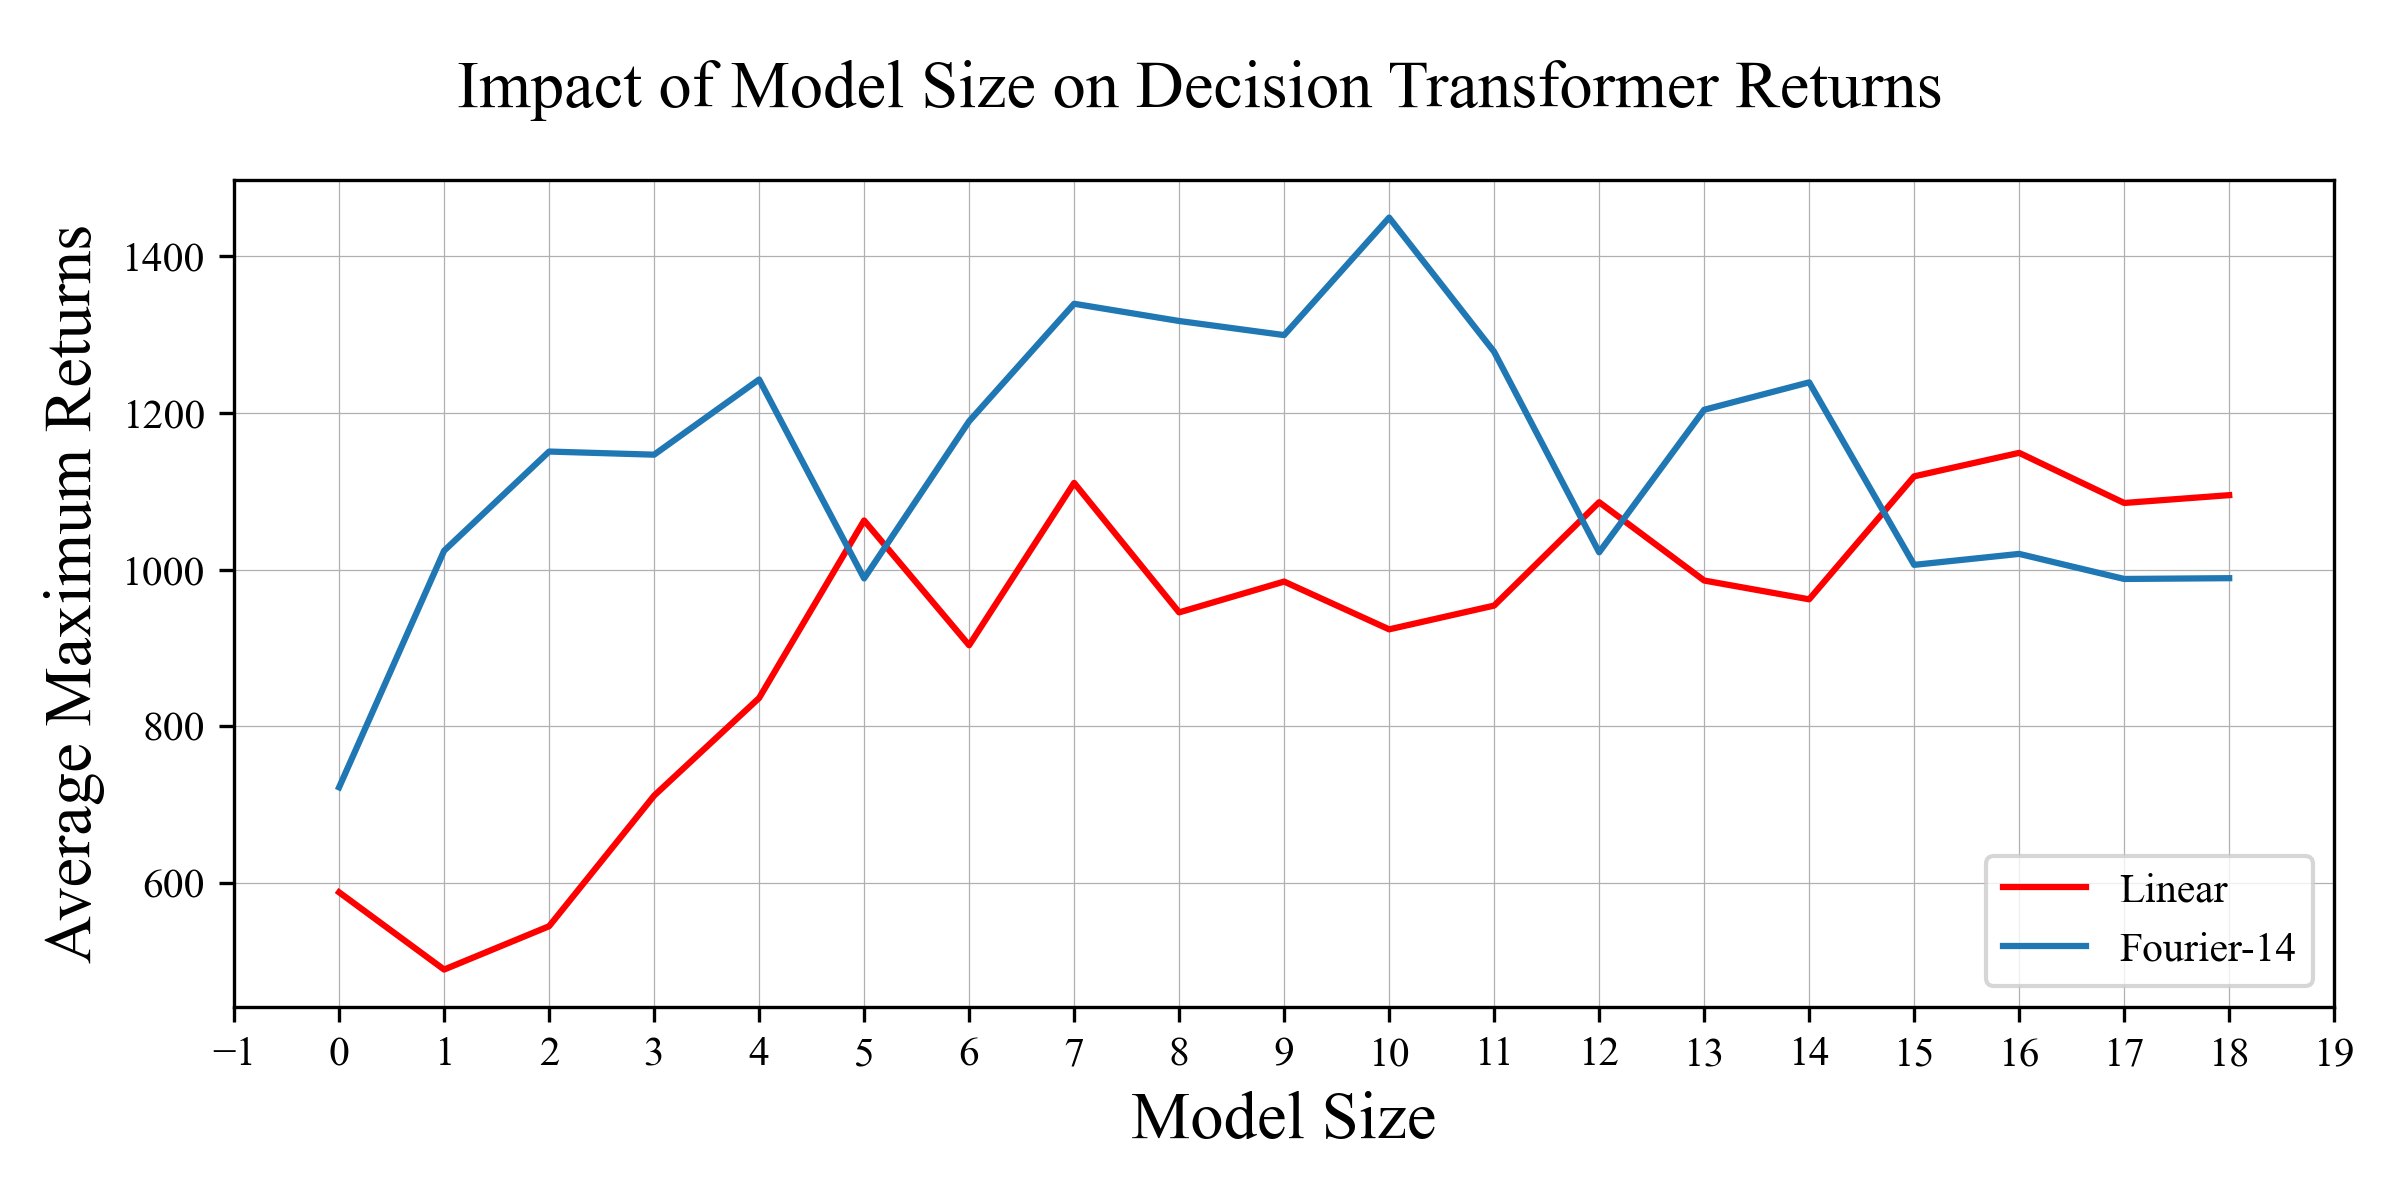
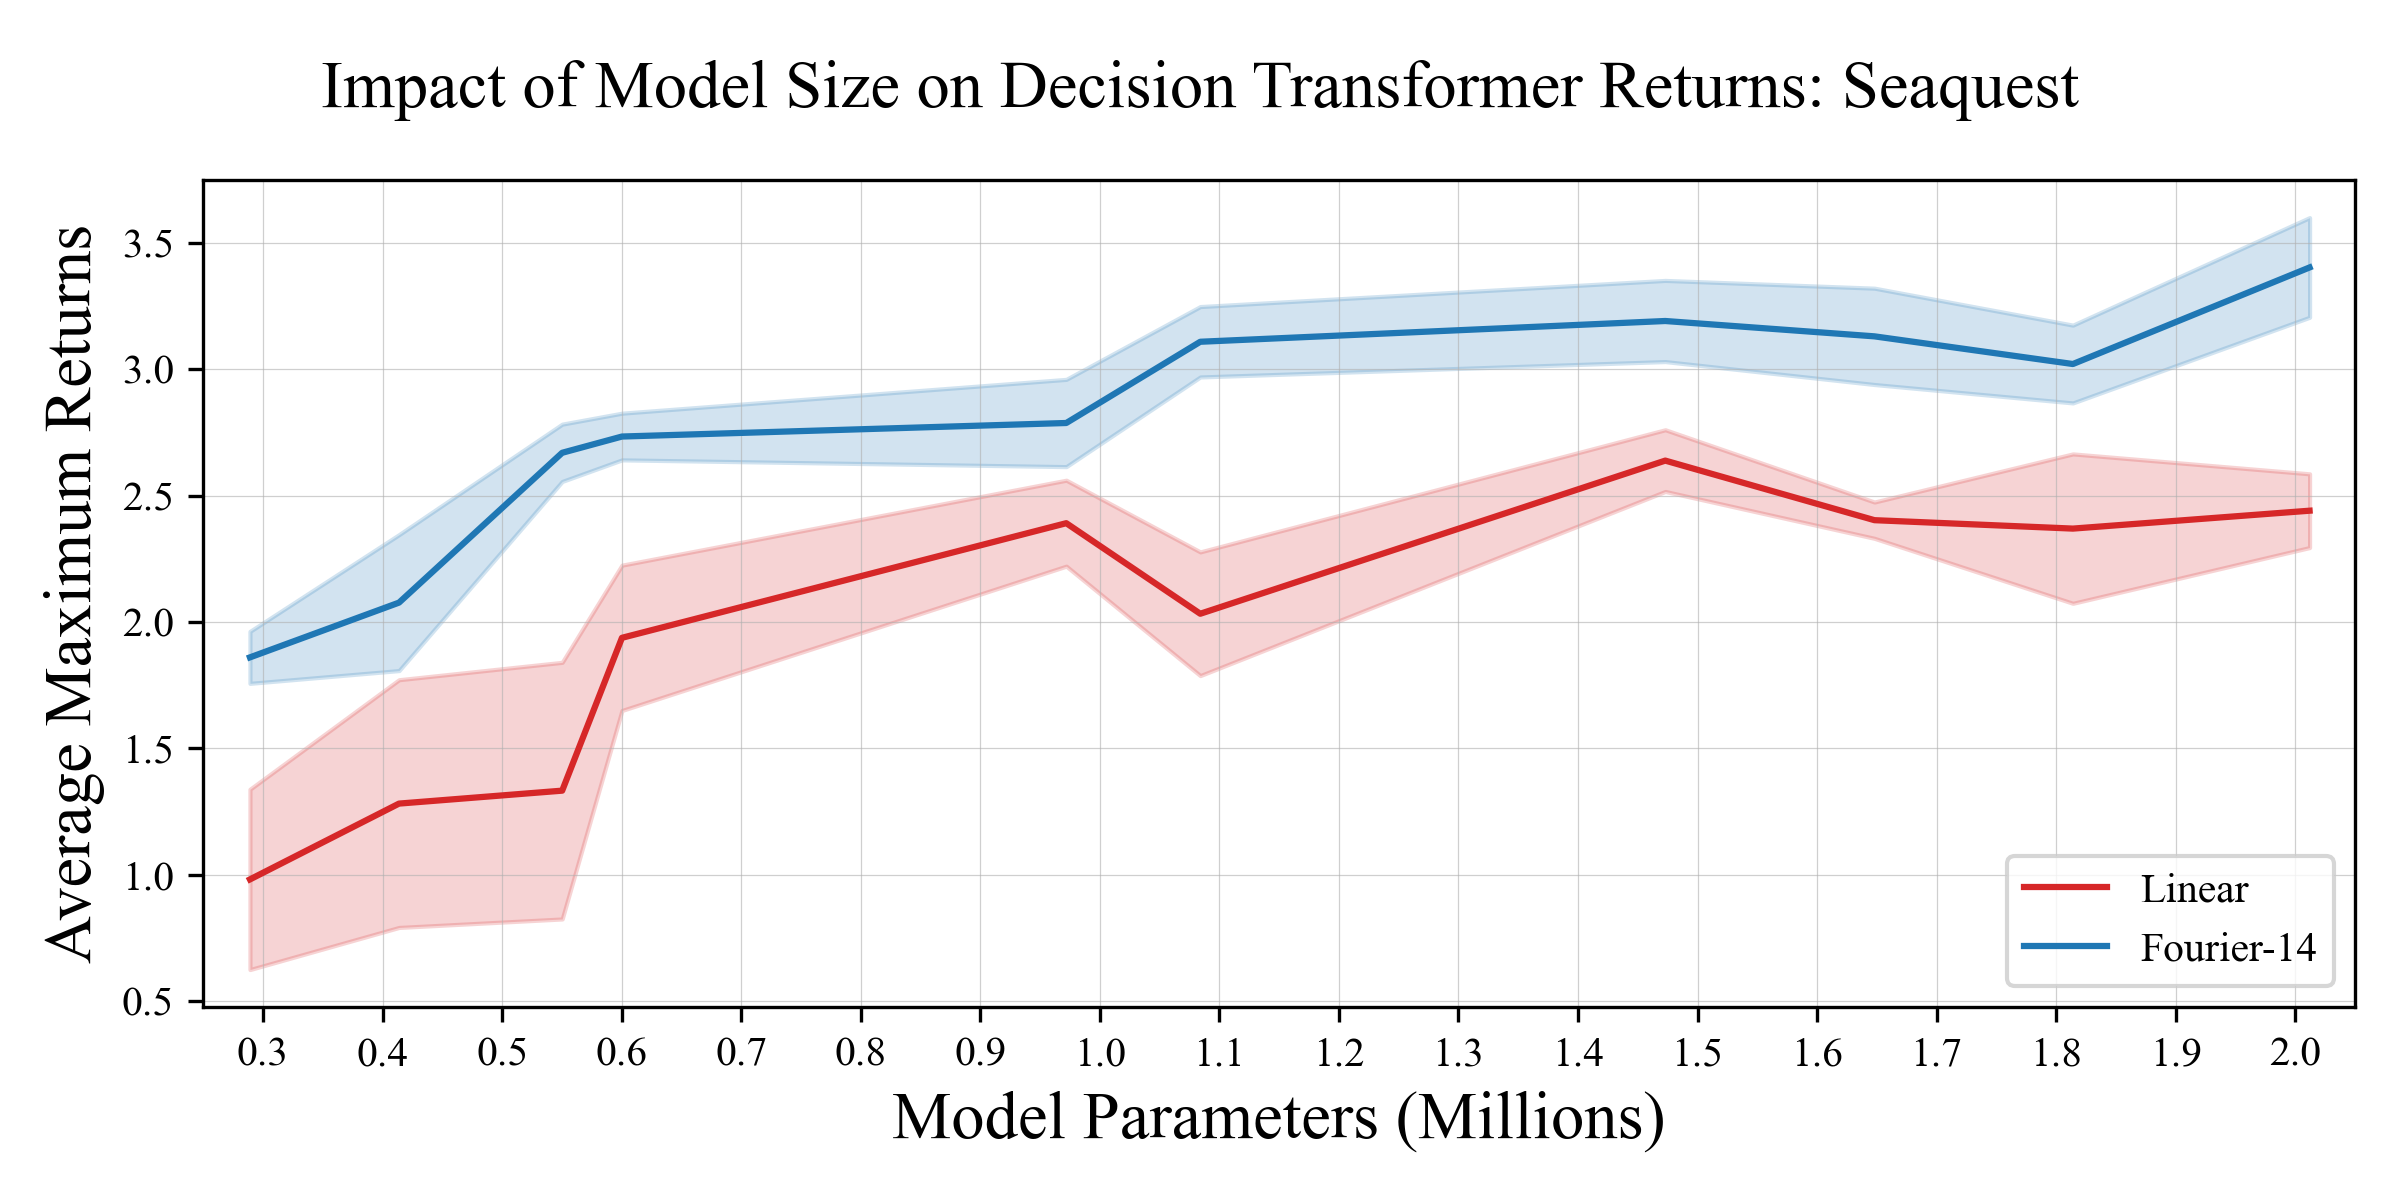
Decision transformer ablation scripts and instructions

diff --git a/imitation-learning/scripts/eval/atari_graph_varying_model_size.py b/imitation-learning/scripts/eval/atari_graph_varying_model_size.py
@@ -1,18 +1,24 @@
 import matplotlib.font_manager as font_manager
 import matplotlib.pyplot as plt
-from matplotlib.ticker import MultipleLocator
+from matplotlib.ticker import MultipleLocator, LogLocator, LogFormatter
 import numpy as np
 import json
 import os
 
 from atari_expert_scores import get_human_normalized_score
-from scipy.ndimage import gaussian_filter1d
 
 # Keep original font settings
 font_path = 'scripts/eval/Times_New_Roman.ttf'
 font_manager.fontManager.addfont(font_path)
 plt.rcParams['font.family'] = 'serif'
 plt.rcParams['font.serif'] = 'Times New Roman'
+
+import sys
+for path in sys.path:
+    if path.endswith("/imitation-learning/scripts/eval"):
+        sys.path.append(path.replace("/scripts/eval", "/"))
+
+from mingpt.scale_configs import SCALE_CONFIGS
 
 def get_returns_for_model(base_dir, model_type):
     """Calculate average of maximal returns for a given model directory."""
@@ -37,16 +43,29 @@ def get_returns_for_model(base_dir, model_type):
 
     return max_returns_mean, max_returns_std
 
-def analyze_seaquest_directories():
-    """Analyze returns across Seaquest-{i} directories for both Linear and Fourier-14 models."""
+def analyze_seaquest_directories(ignore_indices=None):
+    """
+    Analyze returns across Seaquest-{i} directories for both Linear and Fourier-14 models.
+    
+    Args:
+        ignore_indices (list or set): Indices to ignore in the analysis
+    """
+    if ignore_indices is None:
+        ignore_indices = set()
+    else:
+        ignore_indices = set(ignore_indices)
+    
     linear_returns = []
     fourier_returns = []
     linear_returns_std = []
     fourier_returns_std = []
-    indices = []
+    x_values = []  # Will store M_log_params values
     
     # Collect data for each directory
-    for i in range(11):
+    for i in range(11):  # Only going up to 10 as per the provided SCALE_CONFIGS
+        if i in ignore_indices:
+            continue
+            
         directory = f"output/Seaquest-{i}"
         if os.path.exists(directory):
             linear_return, linear_return_std = get_returns_for_model(directory, "linear")
@@ -57,21 +76,21 @@ def analyze_seaquest_directories():
                 fourier_returns.append(fourier_return)
                 linear_returns_std.append(linear_return_std)
                 fourier_returns_std.append(fourier_return_std)
-                indices.append(i)
+                x_values.append(SCALE_CONFIGS[i]["M_log_params"])
     
-    return indices, linear_returns, fourier_returns, linear_returns_std, fourier_returns_std
+    return x_values, linear_returns, fourier_returns, linear_returns_std, fourier_returns_std
 
-def create_graph(indices, linear_returns, fourier_returns, linear_returns_std, fourier_returns_std, output_fname):
+def create_graph(x_values, linear_returns, fourier_returns, linear_returns_std, fourier_returns_std, output_fname):
     """Create a graph comparing Linear and Fourier-14 returns."""
     fig, ax = plt.subplots(figsize=(8, 4))
 
-    DIVIDE_STD_BY = (1/0.67) # this gives 50% confidence interval
+    DIVIDE_STD_BY = (1/0.67)  # this gives 50% confidence interval
     
     # Plot linear returns
-    ax.plot(indices, linear_returns, c="tab:red", label="Linear")
+    ax.plot(x_values, linear_returns, c="tab:red", label="Linear")
     # Plot standard deviation tunnel for linear returns
     ax.fill_between(
-        indices, 
+        x_values, 
         np.array(linear_returns) - np.array(linear_returns_std)/DIVIDE_STD_BY, 
         np.array(linear_returns) + np.array(linear_returns_std)/DIVIDE_STD_BY, 
         color="tab:red", 
@@ -79,10 +98,10 @@ def create_graph(indices, linear_returns, fourier_returns, linear_returns_std, f
     )
 
     # Plot fourier returns
-    ax.plot(indices, fourier_returns, c="tab:blue", label="Fourier-14")
+    ax.plot(x_values, fourier_returns, c="tab:blue", label="Fourier-14")
     # Plot standard deviation tunnel for fourier returns
     ax.fill_between(
-        indices, 
+        x_values, 
         np.array(fourier_returns) - np.array(fourier_returns_std)/DIVIDE_STD_BY, 
         np.array(fourier_returns) + np.array(fourier_returns_std)/DIVIDE_STD_BY, 
         color="tab:blue", 
@@ -90,14 +109,23 @@ def create_graph(indices, linear_returns, fourier_returns, linear_returns_std, f
     )
     
     # Set labels and title
-    ax.set_xlabel("Model Size", fontsize=16)
+    ax.set_xlabel("Model Parameters (Millions)", fontsize=16)
     ax.set_ylabel("Average Maximum Returns", fontsize=16)
     fig.suptitle("Impact of Model Size on Decision Transformer Returns: Seaquest", fontsize=16, y=0.95)
     
     # Configure grid and axis
     ax.grid(True, linewidth=0.3)
-    ax.set_xlim(-0.25,10.25)  # Slightly wider than 0-18 for better visibility
-    ax.xaxis.set_major_locator(MultipleLocator(1))  # Set x-ticks to integers
+    
+    # Set x-axis limits with padding
+    min_x = 0.25
+    max_x = 2.05
+    ax.set_xlim(min_x, max_x)
+    
+    # Set major ticks every 0.1
+    ax.xaxis.set_major_locator(MultipleLocator(0.1))
+    
+    # Add minor gridlines
+    ax.grid(True, which='major', linestyle='-', alpha=0.6)
     
     # Add legend
     ax.legend(loc="lower right")
@@ -110,12 +138,12 @@ def create_graph(indices, linear_returns, fourier_returns, linear_returns_std, f
     plt.savefig(output_fname, dpi=300)
 
 def main():
-    # Collect and analyze data
-    indices, linear_returns, fourier_returns, linear_returns_std, fourier_returns_std = analyze_seaquest_directories()
+    # Collect and analyze data, ignoring index 5
+    x_values, linear_returns, fourier_returns, linear_returns_std, fourier_returns_std = analyze_seaquest_directories(ignore_indices=[5])
     
     # Create and save the graph
     output_fname = "scripts/eval/atari_graph_varying_model_size.png"
-    create_graph(indices, linear_returns, fourier_returns, linear_returns_std, fourier_returns_std, output_fname)
+    create_graph(x_values, linear_returns, fourier_returns, linear_returns_std, fourier_returns_std, output_fname)
 
 if __name__ == "__main__":
     main()

diff --git a/imitation-learning/mingpt/scale_configs.py b/imitation-learning/mingpt/scale_configs.py
@@ -1,21 +1,13 @@
 SCALE_CONFIGS = {
-    0: {"name": "Nano",     "n_layer": 2,   "n_head": 2,    "n_embd": 32},    # ~0.2895M params
-    1: {"name": "Micro",    "n_layer": 2,   "n_head": 2,    "n_embd": 48},    # ~0.4137M params
-    2: {"name": "Tiny",     "n_layer": 2,   "n_head": 4,    "n_embd": 64},    # ~0.5502M params
-    3: {"name": "Mini",     "n_layer": 3,   "n_head": 4,    "n_embd": 64},    # ~0.6002M params
-    4: {"name": "XSmall",   "n_layer": 3,   "n_head": 4,    "n_embd": 96},    # ~0.9719M params
-    5: {"name": "Small-A",  "n_layer": 4,   "n_head": 4,    "n_embd": 96},    # ~1.084M params
-    6: {"name": "Small-B",  "n_layer": 4,   "n_head": 6,    "n_embd": 96},    # ~1.084M params
-    7: {"name": "Small-C",  "n_layer": 4,   "n_head": 6,    "n_embd": 120},   # ~1.473M params
-    8: {"name": "Small-D",  "n_layer": 5,   "n_head": 6,    "n_embd": 120},   # ~1.648M params
-    9: {"name": "Small-E",  "n_layer": 5,   "n_head": 8,    "n_embd": 128},   # ~1.814M params
-    10: {"name": "Base",    "n_layer": 6,   "n_head": 8,    "n_embd": 128},   # ~2.012M params
-    11: {"name": "Medium-A","n_layer": 7,   "n_head": 8,    "n_embd": 192},   # ~4.309M params
-    12: {"name": "Medium-B","n_layer": 8,   "n_head": 8,    "n_embd": 256},   # ~7.885M params
-    13: {"name": "Medium-C","n_layer": 10,  "n_head": 10,   "n_embd": 320},   # ~14.27M params
-    14: {"name": "Large-A", "n_layer": 12,  "n_head": 12,   "n_embd": 384},   # ~23.61M params
-    15: {"name": "Large-B", "n_layer": 14,  "n_head": 14,   "n_embd": 448},   # ~36.48M params
-    16: {"name": "XLarge-A","n_layer": 16,  "n_head": 16,   "n_embd": 512},   # ~53.49M params
-    17: {"name": "XLarge-B","n_layer": 18,  "n_head": 18,   "n_embd": 576},   # ~75.23M params
-    18: {"name": "2XLarge", "n_layer": 20,  "n_head": 20,   "n_embd": 640},   # ~102.3M params
+    0: {"name": "Nano",     "n_layer": 2,   "n_head": 2,    "n_embd": 32,    "M_log_params": 0.289},    # ~0.2895M params
+    1: {"name": "Micro",    "n_layer": 2,   "n_head": 2,    "n_embd": 48,    "M_log_params": 0.4137},    # ~0.4137M params
+    2: {"name": "Tiny",     "n_layer": 2,   "n_head": 4,    "n_embd": 64,    "M_log_params": 0.5502},    # ~0.5502M params
+    3: {"name": "Mini",     "n_layer": 3,   "n_head": 4,    "n_embd": 64,    "M_log_params": 0.6002},    # ~0.6002M params
+    4: {"name": "XSmall",   "n_layer": 3,   "n_head": 4,    "n_embd": 96,    "M_log_params": 0.9719},    # ~0.9719M params
+    5: {"name": "Small-A",  "n_layer": 4,   "n_head": 4,    "n_embd": 96,    "M_log_params": 1.084},    # ~1.084M params
+    6: {"name": "Small-B",  "n_layer": 4,   "n_head": 6,    "n_embd": 96,    "M_log_params": 1.084},    # ~1.084M params
+    7: {"name": "Small-C",  "n_layer": 4,   "n_head": 6,    "n_embd": 120,   "M_log_params": 1.473},   # ~1.473M params
+    8: {"name": "Small-D",  "n_layer": 5,   "n_head": 6,    "n_embd": 120,   "M_log_params": 1.648},   # ~1.648M params
+    9: {"name": "Small-E",  "n_layer": 5,   "n_head": 8,    "n_embd": 128,   "M_log_params": 1.814},   # ~1.814M params
+    10: {"name": "Base",    "n_layer": 6,   "n_head": 8,    "n_embd": 128,   "M_log_params": 2.012},   # ~2.012M params
 }

diff --git a/imitation-learning/scripts/eval/atari_graph_varying_freqs.py b/imitation-learning/scripts/eval/atari_graph_varying_freqs.py
@@ -15,8 +15,12 @@ plt.rcParams['font.serif'] = 'Times New Roman'
 def get_frequencies_for_game(game_name):
     if game_name == 'Seaquest':
         return list(range(2, 34, 2))  # [2,4,6,8,...,32]
-    else:
+    elif game_name in ["BankHeist", "Centipede", "DoubleDunk"]:
         return list(range(4, 36, 4))  # [4,8,12,...,32]
+    elif game_name == "Boxing" : 
+        return [4, 8, 12, 16]
+    else:
+        return [8, 16]
 
 def get_returns_metrics(game_name, returns_local):
 
@@ -27,7 +31,7 @@ def get_returns_metrics(game_name, returns_local):
     returns_best = np.asarray(returns_best)
 
     # normalize
-    # returns_best = 100*get_human_normalized_score(game_name.lower(), returns_best)
+    returns_best = 100*get_human_normalized_score(game_name.lower(), returns_best)
 
     returns_mean = returns_best.mean()
     returns_std = returns_best.std()
@@ -143,7 +147,7 @@ def build_graphs(vals, freqs, output_fname, title=""):
     ax1.set_xlabel("Fourier Frequencies", fontsize=16)
     ax1.set_ylabel("Normalized Returns", fontsize=16)
     ax1.grid(True, linewidth=0.3)
-    ax1.set_xlim(2, 32)  # Set the x-axis limits to match the new tick values
+    ax1.set_xlim(freqs[0], freqs[-1])  # Set the x-axis limits to match the new tick values
     ax1.xaxis.set_major_locator(MultipleLocator(2))  # Set x-ticks to 2, 4, 6, ..., 32
     ax1.legend(loc="lower right")
 
@@ -164,7 +168,7 @@ def build_graphs(vals, freqs, output_fname, title=""):
     ax2.set_xlabel("Fourier Frequencies", fontsize=16)
     ax2.set_ylabel("Smoothness", fontsize=16)
     ax2.grid(True, linewidth=0.3)
-    ax2.set_xlim(2, 32)  # Set the x-axis limits to match the new tick values
+    ax2.set_xlim(freqs[0], freqs[-1])  # Set the x-axis limits to match the new tick values
     ax2.xaxis.set_major_locator(MultipleLocator(2))  # Set x-ticks to 2, 4, 6, ..., 32
     ax2.legend(loc="lower right")
 

diff --git a/imitation-learning/scripts/eval/atari_expert_scores.py b/imitation-learning/scripts/eval/atari_expert_scores.py
@@ -46,7 +46,7 @@ _ATARI_DATA = {
     'asterix': (210.0, 8503.3),
     'asteroids': (719.1, 47388.7),
     'atlantis': (12850.0, 29028.1),
-    'bank_heist': (14.2, 753.1),
+    'bankheist': (14.2, 753.1),
     'battle_zone': (2360.0, 37187.5),
     'beam_rider': (363.9, 16926.5),
     'berzerk': (123.7, 2630.4),
@@ -54,13 +54,13 @@ _ATARI_DATA = {
     'boxing': (0.1, 12.1),
     'breakout': (1.7, 30.5),
     'centipede': (2090.9, 12017.0),
-    'chopper_command': (811.0, 7387.8),
+    'choppercommand': (811.0, 7387.8),
     'crazy_climber': (10780.5, 35829.4),
     'defender': (2874.5, 18688.9),
     'demon_attack': (152.1, 1971.0),
     'doubledunk': (-18.6, -16.4),
     'enduro': (0.0, 860.5),
-    'fishing_derby': (-91.7, -38.7),
+    'fishingderby': (-91.7, -38.7),
     'freeway': (0.0, 29.6),
     'frostbite': (65.2, 4334.7),
     'gopher': (257.6, 2412.5),
@@ -77,7 +77,7 @@ _ATARI_DATA = {
     'phoenix': (761.4, 7242.6),
     'pitfall': (-229.4, 6463.7),
     'pong': (-20.7, 14.6),
-    'private_eye': (24.9, 69571.3),
+    'privateeye': (24.9, 69571.3),
     'qbert': (163.9, 13455.0),
     'riverraid': (1338.5, 17118.0),
     'road_runner': (11.5, 7845.0),

diff --git a/imitation-learning/README.md b/imitation-learning/README.md
@@ -105,7 +105,7 @@ done
 Linear:
 
 ```bash
-GAME_NAME=BattleZone
+GAME_NAME=Seaquest # alternatively: BankHeist, DoubleDunk
 sh scripts/train/exps_linear.sh $GAME_NAME
 ```
 
@@ -124,11 +124,9 @@ done
 Linear:
 
 ```bash
-GAME_NAME=Seaquest
-
-for SCALE in 0 1 2 3 4 5 6 7 8 9 10 11 12 13 14 15 16 17 18
+for SCALE in 0 1 2 3 4 5 6 7 8 9 10
 do
-    sh scripts/train/exps_linear.sh $GAME_NAME $SCALE
+    sh scripts/train/exps_linear_scale.sh $GAME_NAME $SCALE
 done
 ```
 
@@ -136,13 +134,20 @@ done
 Fourier:
 
 ```bash
-GAME_NAME=Seaquest
 fourier_frequencies=14
 
-for SCALE in 0 1 2 3 4 5 6 7 8 9 10 11 12 13 14 15 16 17 18
+for SCALE in 0 1 2 3 4 5 6 7 8 9 10
 do
-    sh scripts/train/exps_fourier.sh $GAME_NAME $fourier_frequencies $scale
+    sh scripts/train/exps_fourier_scale.sh $GAME_NAME $fourier_frequencies $scale
 done
+```
+
+#### Eval, ablation on model size
+
+This will graph the results on this model size ablation.
+
+```bash
+python scripts/eval/atari_graph_varying_model_size.py
 ```
 
 ### Evaluation
